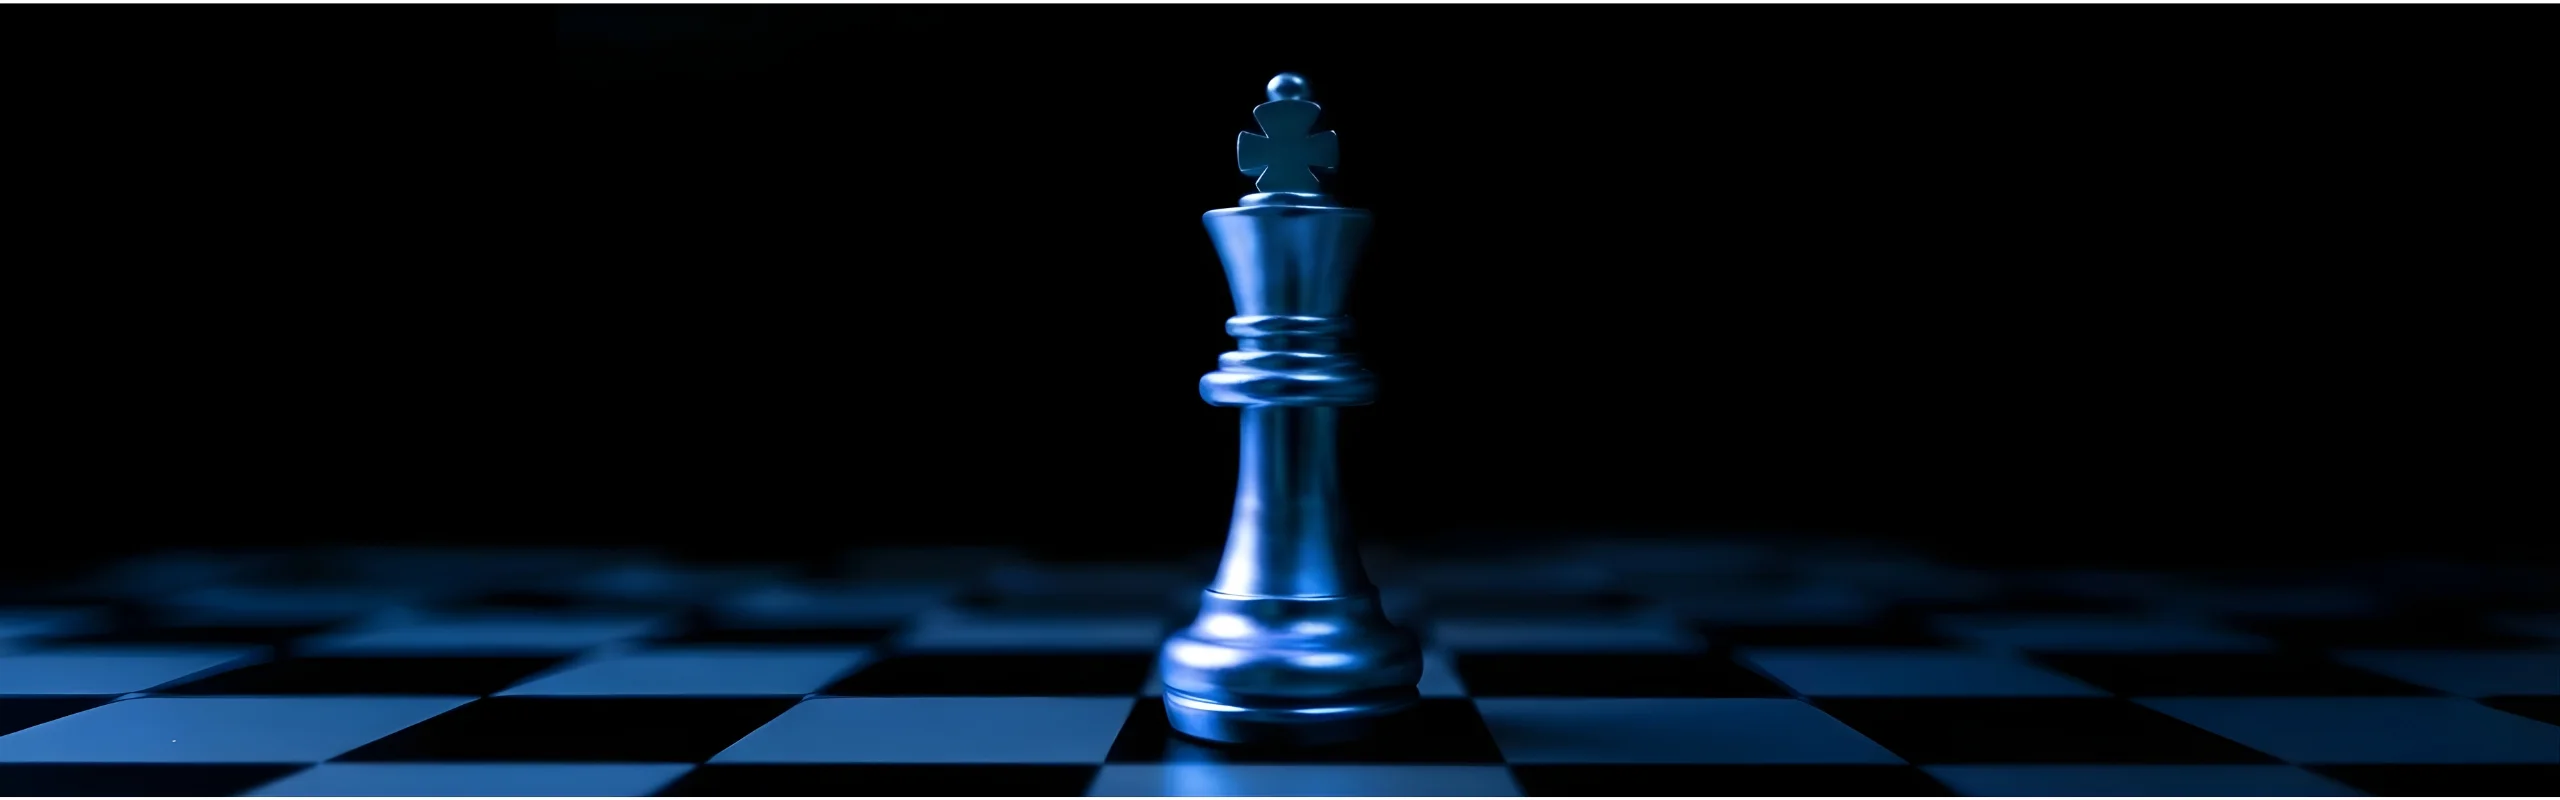
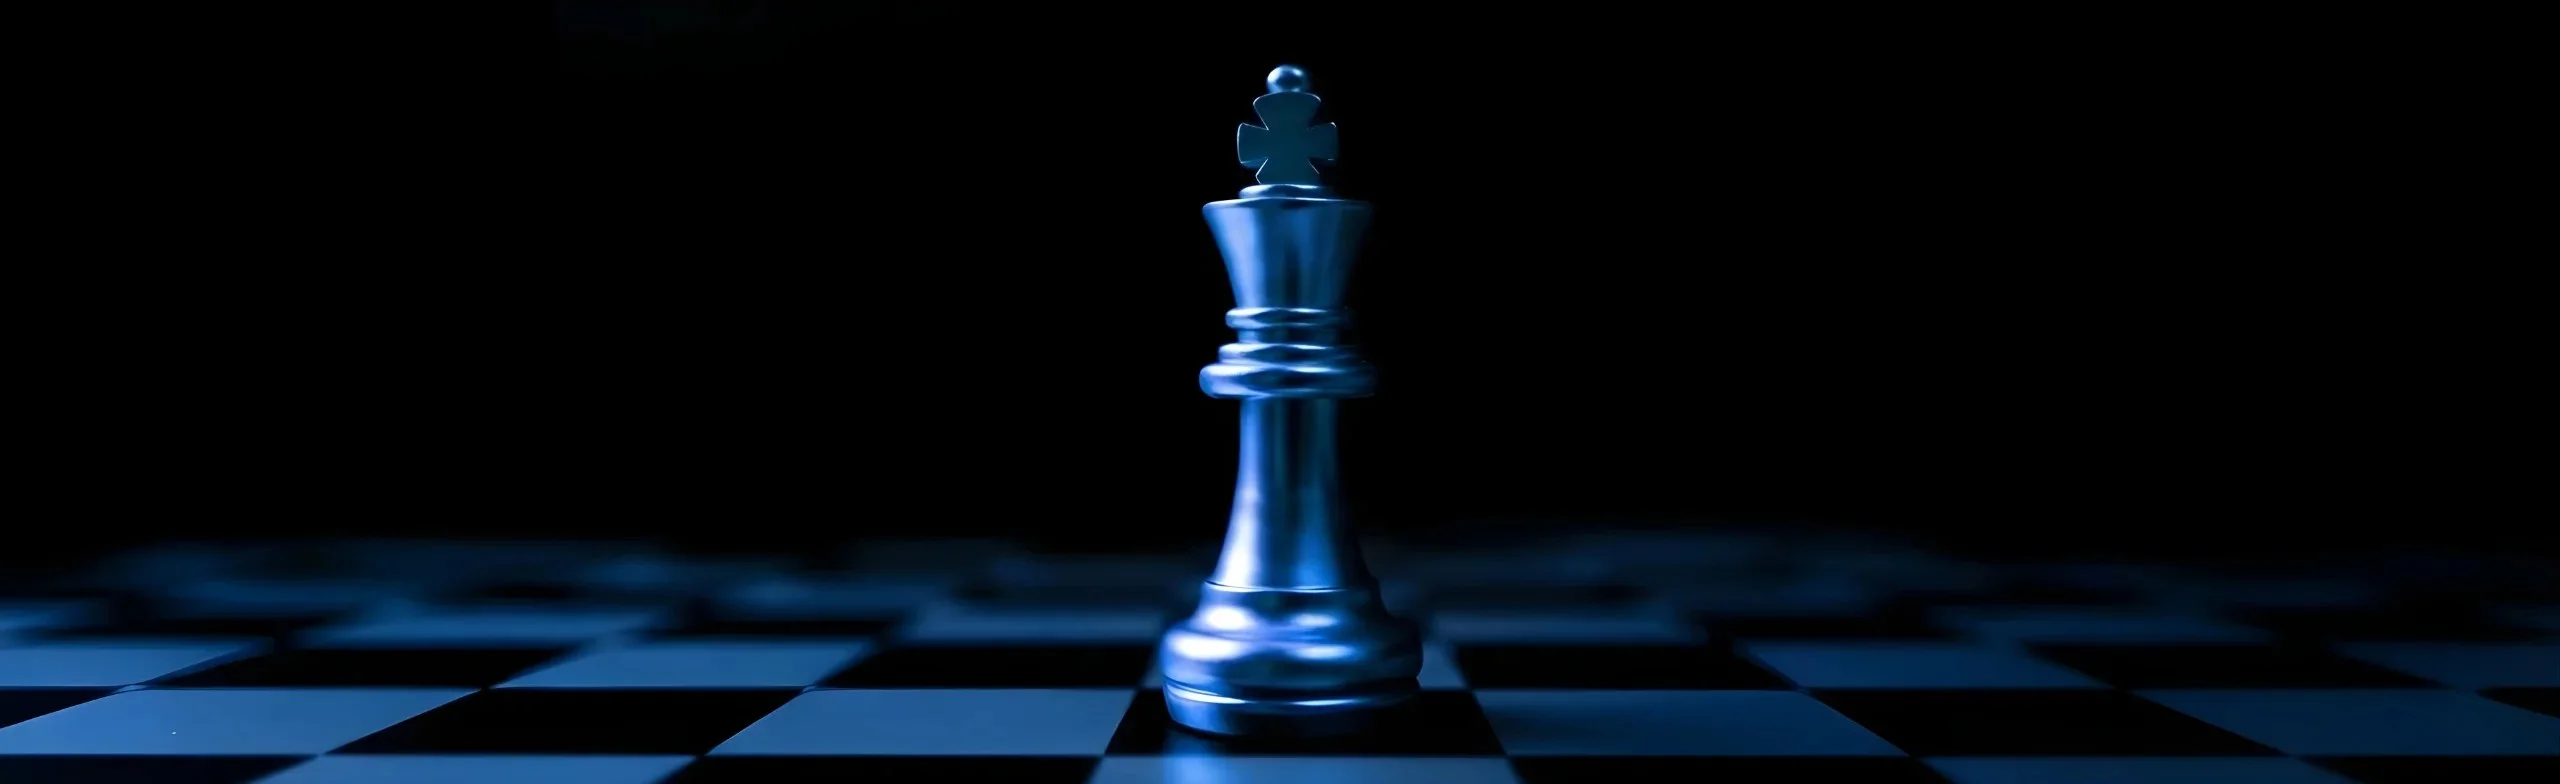
cambio diseño footer - mejoras de la landing

diff --git a/src/styles/globals.scss b/src/styles/globals.scss
@@ -90,6 +90,19 @@ p {
 html[data-theme='dark'] p {
   color: #c4c4c4;
 }
+html[data-theme='dark'] .container-toggle {
+  background: none;
+}
+html[data-theme='light'] .container-toggle { 
+    background: none;
+}
+
+html[data-theme='dark'] .menu-toggle .bar {
+background: var(--c-white);
+}
+html[data-theme='light'] .menu-toggle .bar {
+background: var(--c-black);
+}
 
 img {
   width: 100%;
@@ -175,7 +188,12 @@ html[data-theme='dark'] .fundamentos {
 html[data-theme='light'] .fundamentos {
   background: var(--c-bg-variant);
 }
-
+html[data-theme='dark'] .tab-title{
+color: var(--c-white);
+}
+html[data-theme='light'] .tab-title {
+  color: var(--c-line);
+}
 @include media(tablet-down) {
   html[data-theme='dark'] .mobile-actions {
     border-top: 1px solid #3a3a3d;

diff --git a/src/styles/mixins.scss b/src/styles/mixins.scss
@@ -243,7 +243,6 @@ $Extralarge: 1440px;
     display: flex;
     justify-content: center;
     align-items: center;
-    background: var(--c-white);
     border-radius: 8px;
   }
 
